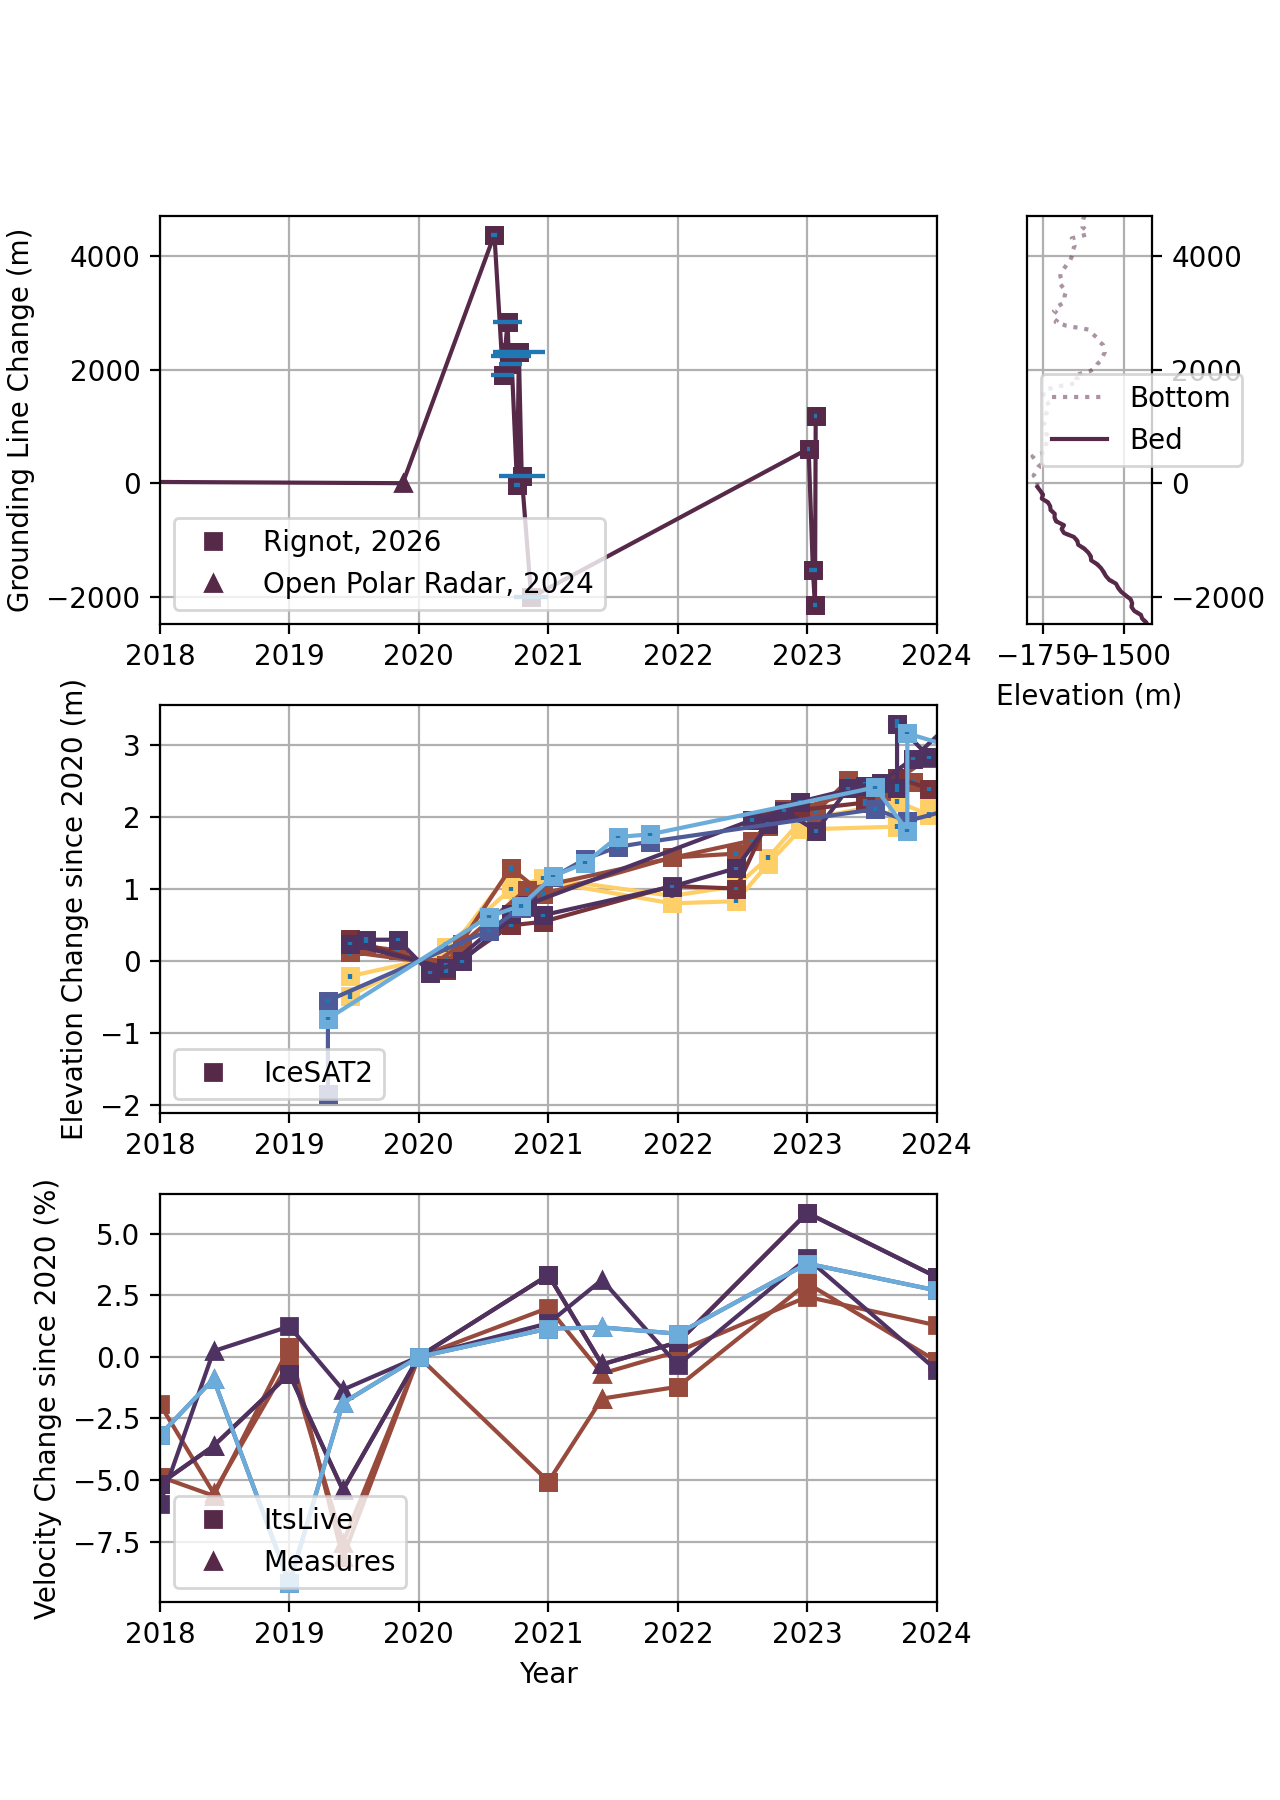
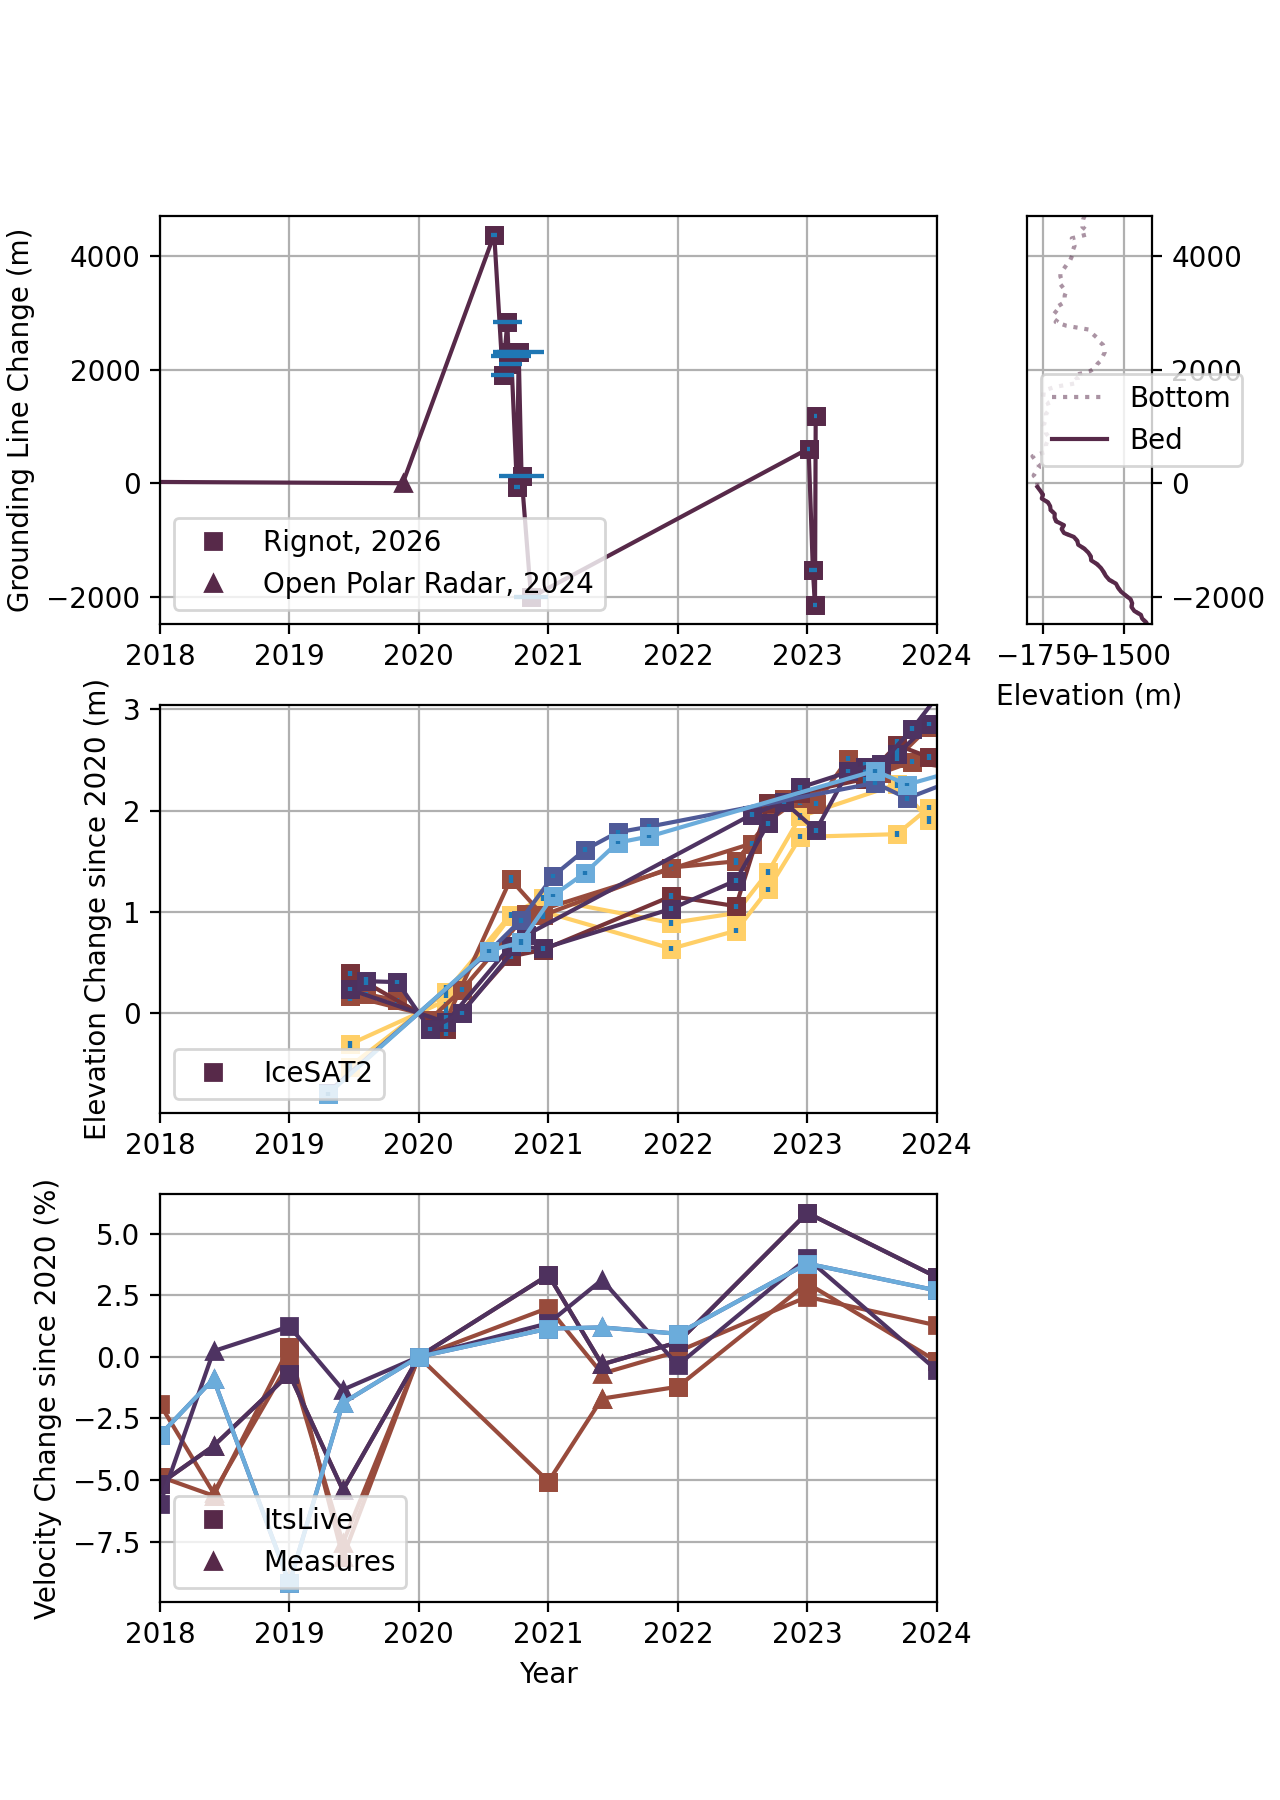
switched to median of elevation for outlier robustness

Changed region(s): [[0.25, 0.3733, 0.75, 0.6222], [0.0312, 0.3733, 0.125, 0.6222]]

diff --git a/src/pointwise.py b/src/pointwise.py
@@ -127,12 +127,12 @@ class Pointwize():
         pass
 
 
+    def round_date(self, date):
+        return date.replace(hour=0, minute=0, second=0, microsecond=0)
 
-    def gpd_geom_match(self, out, index, column_of_interest = 'elevation', add_result=True, date_col='date'):
 
-        '''rename_for_datasource = {'elev': {'_xerr': '_xerr'},
-                                 'gl': {}}
-        out = out.rename(columns=rename_for_datasource[self.data])'''
+    def gpd_geom_match(self, out, index, column_of_interest = 'elev', add_result=True, date_col='date'):
+
         
         if type(index) == int:
             p = self.points[index]
@@ -164,19 +164,33 @@ class Pointwize():
             if x in df_ref.columns:
                 other_items[x] = []
 
-        for x in df_ref[date_col].unique():
-            val = df_ref[df_ref[date_col] == x][column_of_interest].dropna().mean()
+
+        rounded_dates = []
+        for i, x in enumerate(df_ref[date_col]):
+            rounded_dates.append(self.round_date(x))
+        rounded_dates = np.array(rounded_dates)
+        
+
+
+        print(rounded_dates)
+        print(np.unique(rounded_dates))
+
+        for x in np.unique(rounded_dates):
+            val = df_ref[rounded_dates == x][column_of_interest].dropna()
+            
+            val = val.median()
+            
             if np.isnan(val):
                 continue
             if 'sources' in df_ref.columns:
                 
-                src = list(df_ref[df_ref[date_col] == x]['sources'])[0]
+                src = list(df_ref[rounded_dates == x]['sources'])[0]
                 if type(src) != str:
                     src = list(src.values)[0]
                 sources.append(src)
                 
                 for y in other_items.keys():
-                    v = item_combiner[y](list(df_ref[df_ref[date_col] == x][y]))
+                    v = item_combiner[y](list(df_ref[rounded_dates == x][y]))
                     other_items[y].append(v)
                 
 
